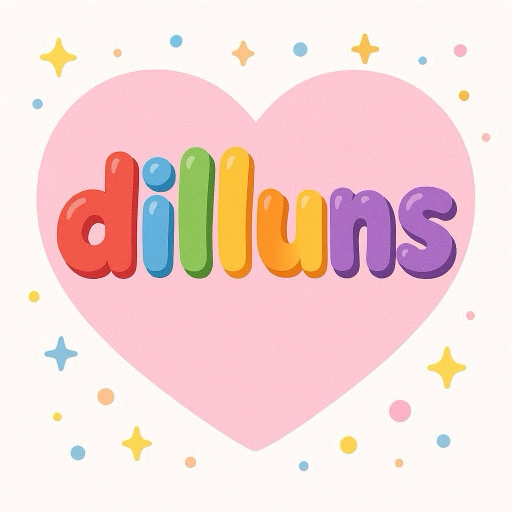
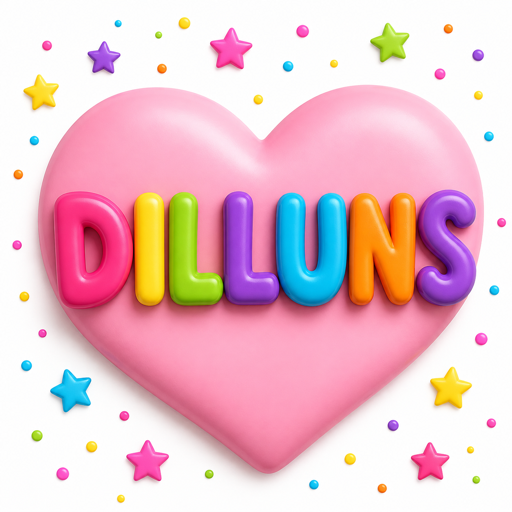
mnozina kao prava mnozina i dani u nedelji svi velikim slovima
MNOŽINA
`retoladors` i `ulls` bili su BAJT-IDENTIČNI fajlovi sa svojom jedninom —
dete koje uči množinu gledalo je jedan flomaster i jedno oko. Nađeno kontakt
listom, potvrđeno heševima. Nove slike: četiri flomastera i dva oka.

DANI U NEDELJI
Četiri su bila VELIKIM slovima, tri malim (dilluns, dimecres, diumenge).
Prepravljena ona tri; sada su svih sedam velikim. Svaka reč je uvećana i
slova prebrojana pre ugradnje — generator ume tiho da proguta ili doda slovo:
DILLUNS (7), DIMECRES (8), DIUMENGE (8). Oblici zadržani (srce/zvezda/krug).
Ostaje razlika u zasićenosti boja: tri nove su življe od četiri stare.

KONTAKT LISTE ILUSTRACIJA
`scripts/kontakt-liste.mjs` slaže sve slike jedne teme na jedan list, pa se
neujednačen stil, tekst na slici i lice na predmetu vide u poređenju — a samo
tako se i vide. Prebrojavanje fajlova prolazi uredno i kad na čaši piše
„Yogurt". Node, ne Python: sistemski `python3` i ImageMagick na ovom Mac-u
traže prihvatanje Xcode licence. Stara Python skripta ostaje sa upozorenjem.
Same liste NE idu u repo (23 MB, prave se za 30 s) — u .gitignore.

Nalazi sa listi (65 slika za popravku) su u handoveru; ovde su rešene 2.
Pre-deploy test: 12/12. Keš servisnog radnika catala-v34.

diff --git a/public/sw.js b/public/sw.js
@@ -1,4 +1,4 @@
-const CACHE_NAME = "catala-v33";
+const CACHE_NAME = "catala-v34";
 const STATIC_ASSETS = [
   "/",
   "/manifest.json",

diff --git a/scripts/qa-contact-sheet.py b/scripts/qa-contact-sheet.py
@@ -1,31 +1,106 @@
-import sys, re, os, subprocess, unicodedata, tempfile
-slug=sys.argv[1]
-proj="/Users/jovana.jovic/Desktop/Projects/Katalonski"
-sc="/private/tmp/claude-501/-Users-jovana-jovic/e13bc652-d4ee-4af1-a704-9868fec6ce90/scratchpad"
-data=open(f"{proj}/src/data/{slug}.ts").read()
-words=set()
-for m in re.finditer(r'(?:catalan|word|correct|targetItem|item|image):\s*"([^"]+)"', data):
-    words.add(m.group(1).strip())
-def key(w):
-    s=unicodedata.normalize('NFD',w); s=''.join(c for c in s if unicodedata.category(c)!='Mn')
-    s=s.replace('·','-').lower(); return re.sub(r"[\s']+","-",s)
-existing=[]; missing=[]; broken=[]; seen=set()
-os.makedirs(f"{sc}/tmp_{slug}", exist_ok=True)
-for w in sorted(words):
-    k=key(w)
-    if k in seen: continue
-    seen.add(k)
-    p=f"{proj}/public/illustrations/{k}.webp"
-    if not os.path.exists(p): missing.append(w); continue
-    # validate + convert to png
-    tp=f"{sc}/tmp_{slug}/{k}.png"
-    r=subprocess.run(["magick",p,"-resize","200x200",tp],capture_output=True)
-    if r.returncode!=0 or not os.path.exists(tp): broken.append(w); continue
-    existing.append((w,tp))
-args=["montage"]
-for w,tp in existing: args+=["-label",w,tp]
-args+=["-tile","5x","-geometry","200x200+6+24","-background","white","-pointsize","22",f"{sc}/_ct_{slug}.png"]
-subprocess.run(args,check=True)
-print(f"{slug}: {len(existing)} slika")
-if broken: print("  OŠTEĆENE: "+", ".join(broken))
-if missing: print("  BEZ slike: "+", ".join(missing))
+"""
+⚠ NE RADI NA OVOM MAC-u (12.08.2026): sistemski `python3` traži prihvatanje
+Xcode licence, a ImageMagick pada iz istog razloga. Umesto ovoga koristi:
+
+    node scripts/kontakt-liste.mjs
+
+Isti posao, bez ijedne dozvole (`sharp` dolazi uz Next.js).
+"""
+"""
+KONTAKT LISTA ILUSTRACIJA — sve slike jedne teme na jednom listu.
+
+Izraz je iz fotografije: kad se razvije film, sve sličice se odštampaju jedna do
+druge, pa se na prvi pogled vidi koja je promašena. Isto važi i ovde.
+
+ZAŠTO POSTOJI: u aplikaciji dete vidi JEDNU sliku u jednom trenutku i svaka za
+sebe izgleda u redu. Neujednačenost stila, tekst na slici ili lice na predmetu
+vide se SAMO u poređenju. Prebrojavanje fajlova i provera da svaka slika postoji
+prolaze uredno i kad je na čaši napisano „Yogurt" — a to je stajalo mesecima.
+Slika se ne ocenjuje spiskom nego gledanjem.
+
+Pokretanje:
+    python3 scripts/qa-contact-sheet.py <tema> [izlazni-folder]
+    python3 scripts/qa-contact-sheet.py --sve [izlazni-folder]
+
+Bez izlaznog foldera piše u `AUDIT/kontakt-liste/`.
+"""
+import sys
+import re
+import os
+import subprocess
+import unicodedata
+
+PROJ = os.path.dirname(os.path.dirname(os.path.abspath(__file__)))
+TEME = ["la-classe", "l-escola", "el-cos", "la-roba", "la-casa", "la-familia",
+        "les-botigues", "el-menjar", "els-animals", "la-ciutat", "els-vehicles", "els-oficis"]
+
+
+def kljuc(w):
+    """Ime reči → ime fajla: skida naglaske, srednju tačku i razmake."""
+    s = unicodedata.normalize("NFD", w)
+    s = "".join(c for c in s if unicodedata.category(c) != "Mn")
+    s = s.replace("·", "-").lower()
+    return re.sub(r"[\s']+", "-", s)
+
+
+def lista_za_temu(slug, izlaz):
+    data = open(os.path.join(PROJ, "src", "data", f"{slug}.ts"), encoding="utf-8").read()
+    reci = set()
+    for m in re.finditer(r'(?:catalan|word|correct|targetItem|item|image|blank|left|right):\s*"([^"]+)"', data):
+        reci.add(m.group(1).strip())
+
+    tmp = os.path.join(izlaz, f".tmp-{slug}")
+    os.makedirs(tmp, exist_ok=True)
+    ima, nema, pokvarene, vidjene = [], [], [], set()
+
+    for w in sorted(reci):
+        k = kljuc(w)
+        if k in vidjene:
+            continue
+        vidjene.add(k)
+        p = os.path.join(PROJ, "public", "illustrations", f"{k}.webp")
+        if not os.path.exists(p):
+            nema.append(w)
+            continue
+        tp = os.path.join(tmp, f"{k}.png")
+        r = subprocess.run(["magick", p, "-resize", "200x200", tp], capture_output=True)
+        if r.returncode != 0 or not os.path.exists(tp):
+            pokvarene.append(w)
+            continue
+        ima.append((w, tp))
+
+    if not ima:
+        print(f"{slug}: nema nijedne slike")
+        return 0, nema, pokvarene
+
+    put = os.path.join(izlaz, f"kontakt-{slug}.png")
+    args = ["montage"]
+    for w, tp in ima:
+        args += ["-label", w, tp]
+    args += ["-tile", "6x", "-geometry", "200x200+6+26",
+             "-background", "white", "-pointsize", "22", put]
+    subprocess.run(args, check=True)
+    for f in os.listdir(tmp):
+        os.remove(os.path.join(tmp, f))
+    os.rmdir(tmp)
+
+    print(f"{slug:14s} {len(ima):3d} slika → {os.path.basename(put)}")
+    if pokvarene:
+        print("               OŠTEĆENE: " + ", ".join(pokvarene))
+    if nema:
+        print(f"               BEZ slike ({len(nema)}): " + ", ".join(nema[:12])
+              + (" …" if len(nema) > 12 else ""))
+    return len(ima), nema, pokvarene
+
+
+if __name__ == "__main__":
+    arg = sys.argv[1] if len(sys.argv) > 1 else "--sve"
+    izlaz = sys.argv[2] if len(sys.argv) > 2 else os.path.join(PROJ, "AUDIT", "kontakt-liste")
+    os.makedirs(izlaz, exist_ok=True)
+    teme = TEME if arg == "--sve" else [arg]
+    uk = 0
+    for t in teme:
+        n, _, _ = lista_za_temu(t, izlaz)
+        uk += n
+    print(f"\nukupno slika na listama: {uk}")
+    print(f"liste su u: {izlaz}")
